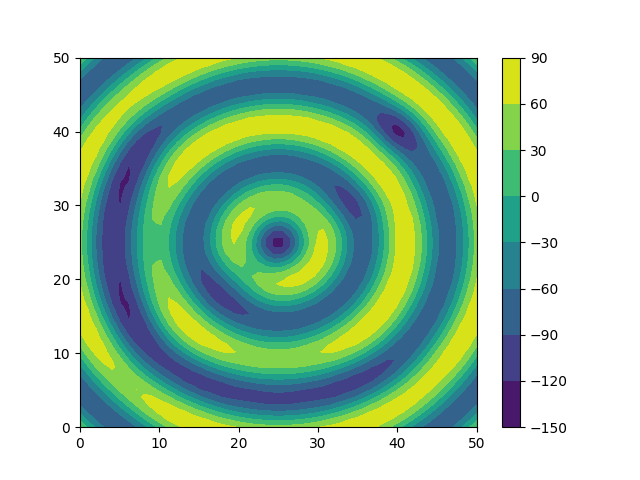
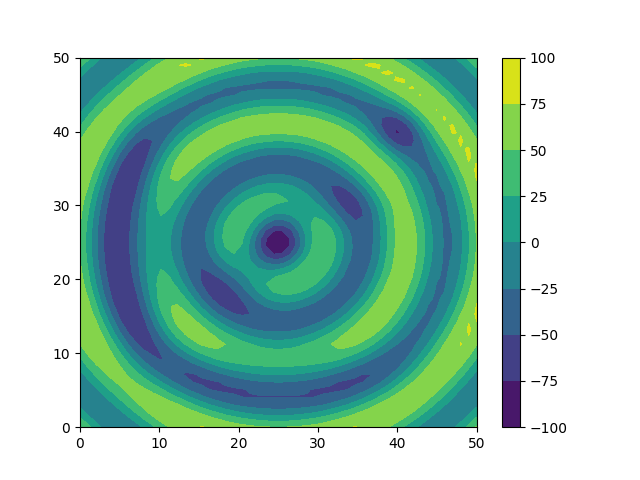
debug for env

diff --git a/game-RL-master/game/assembly_env/micro.py b/game-RL-master/game/assembly_env/micro.py
@@ -9,7 +9,7 @@ def Gaussain_energy(x, y, mu_x, mu_y, sigma_x, sigma_y):
 def V(x,y,bounds = [50,50]):
     mask = (x < 0) | (x > bounds[0]) | (y < 0) | (y > bounds[1])
     mask = np.where(mask, np.inf, 0)
-    r = 0
+    r = np.sqrt((x-25)**2 + (y-25)**2)
     cos = -80*np.cos(np.sqrt(((x-25)/1.7)**2+((y-25)/1.7)**2))
     trap_0 = -50 * Gaussain_energy(x, y, 25, 25, 4, 4)
     trap_1 = -50 * Gaussain_energy(x, y, 20, 20, 4, 4)
@@ -20,7 +20,7 @@ def V(x,y,bounds = [50,50]):
     return r + cos + trap_0 + trap_1 + trap_2 + trap_3 + trap_4 + trap_5 + mask
 
 class Micro_discret_env():
-    def __init__(self, seed=0, temp_sele=3, threshold = 0.01, boundary = [280,350],potential_func=V,target_state = (5, 18)):
+    def __init__(self, seed=0, temp_sele=3, threshold = 0.01, boundary = [280,350],potential_func=V,target_state = (25, 25)):
         self.action_num = temp_sele
         self.height = boundary[1]
         self.low = boundary[0]
@@ -51,6 +51,8 @@ class Micro_discret_env():
         z_inv = p_4
         # generate a random number
         r = np.random.uniform(0,1) 
+        print(min(1,np.exp(-V_1_0/T)),min(1,np.exp(-V1_0/T)),min(1,np.exp(-V_0_1/T)),min(1,np.exp(-V0_1/T)))
+        # print(r, 1/z_inv,p_1/z_inv, p_2/z_inv, p_3/z_inv, p_4/z_inv)
         # the special case delat_P = 0 is considered
         if r < 1/z_inv:
             return x,y
@@ -64,7 +66,7 @@ class Micro_discret_env():
             return x,y+1
 
     def reset(self):
-        return 44, 48
+        # return 44, 48
         return np.random.randint(0,50), np.random.randint(0,50)
 
     def step(self, action_index, threshold = -30, time = 0.001):
@@ -81,7 +83,7 @@ class Micro_discret_env():
             reward = 10
             return self.state, reward, done, truncated, 0
         distance = np.sqrt((self.state[0] - self.target_state[0])**2 + (self.state[1] - self.target_state[1])**2)
-        reward = -0.1 - distance*0.1
+        reward = -0.01 
         return self.state, reward, done, truncated, distance
     
     
@@ -163,7 +165,7 @@ if __name__ == '__main__':
         step = 0
         while not done:
             step +=1
-            action = 1
+            action = 0
             state, reward, done, truncated, info = env.step(action)
             print(reward, done, action, info, state, step)
             # break

diff --git a/game-RL-master/model/micro_maze_arch.py b/game-RL-master/model/micro_maze_arch.py
@@ -67,3 +67,16 @@ class DuelingDqnNet(nn.Module):
         value = self.value(features)
         advantage = self.advantage(features) 
         return value + advantage - advantage.mean(dim=-1, keepdim=True)
+    
+class position_embedding(nn.Module):
+    def __init__(self, d_model, max_len=50*50):
+        super(position_embedding, self).__init__()
+        self.d_model = d_model
+        self.max_len = max_len
+    def forward(self, x):   
+        position = th.arange(0, self.max_len).unsqueeze(1)
+        div_term = th.exp(th.arange(0, self.d_model, 2) * -(th.log(th.tensor(10000.0)) / self.d_model))
+        pe = th.zeros(self.max_len, self.d_model)
+        pe[:, 0::2] = th.sin(position * div_term)
+        pe[:, 1::2] = th.cos(position * div_term)
+        return pe

diff --git a/game-RL-master/game/micro_maze.py b/game-RL-master/game/micro_maze.py
@@ -47,9 +47,11 @@ class Discret_env():
 
         self.all_reward += all_reward
         for key in self.state.keys():
-            if key == "Mstate":
+            if key == "site":
                 self.state[key][0:-1] = self.state[key][1:]
                 self.state[key][-1] = np.array(state, dtype=np.float32)
+            if key == "image":
+                self.state[key] = self.local_map(state[0], state[1], self.game.potential_image)
         return deepcopy(self.state), all_reward, done, truncated, info
     def reset_step(self, action_index):
         return_state, step_reward, done, truncated, info = self.step(action_index)

diff --git a/MC.py b/MC.py
@@ -7,8 +7,8 @@ def Gaussain_energy(x, y, mu_x, mu_y, sigma_x, sigma_y):
 def V(x,y,bounds = [50,50]):
     mask = (x < 0) | (x > bounds[0]) | (y < 0) | (y > bounds[1])
     mask = np.where(mask, np.inf, 0)
-    r = 0
-    cos = -80*np.cos(np.sqrt(((x-25)/1.7)**2+((y-25)/1.7)**2))
+    r = np.sqrt((x-25)**2 + (y-25)**2)
+    cos = -50*np.cos(np.sqrt(((x-25)/1.7)**2+((y-25)/1.7)**2))
     trap_0 = -50 * Gaussain_energy(x, y, 25, 25, 4, 4)
     trap_1 = -50 * Gaussain_energy(x, y, 20, 20, 4, 4)
     trap_2 = -30 * Gaussain_energy(x, y, 30, 30, 8, 3)

diff --git a/game-RL-master/game/assembly_env/asm_env.py b/game-RL-master/game/assembly_env/asm_env.py
@@ -196,7 +196,8 @@ class continus_T_env():
         # print(modes)
         delta_modes = np.log(np.abs(modes)) - np.log(np.abs(cur_modes))
         # TODO: variant coefficient modes reward
-        reward = -delta_modes[0]*10
+        
+        reward = -delta_modes[0]*10 - delta_modes[1]*rate_1 - delta_modes[2]*rate_2
         distance = np.log(np.sum(self.target_state *(np.log(self.target_state) - np.log(self.state))))
         if np.log(np.abs(modes)) < -10:
             print(modes)

diff --git a/game-RL-master/config/micro_maze_setting.py b/game-RL-master/config/micro_maze_setting.py
@@ -14,7 +14,7 @@ NEED_RENDER =False
 '''
 the basic model train setting
 '''
-ENVS_NUM = 3 
+ENVS_NUM = 100 
 TRAIN_MODEL_STEP = 1 
 TQDM_STEP = 100   
 TENSORBOARD_WRITE_STEP = 1000
@@ -27,11 +27,11 @@ TIMESTEP = 1000000
 TARGET_UPDATE_STEP = 100  
 BATCH_SIZE = 1024 
 LEARNING_RATE = 1e-4  
-GAMMA_RATE = 0.99  
+GAMMA_RATE = 0.8
 START_EPS_RATE = 0.5  
 EPS_DECREASE_RATIO = 0.95 
 FINAL_EPS_RATE = 0.01  
-TAU = 0.5  
+TAU = 1
 
 WEIGHT_DECAY = 1e-8  
 
